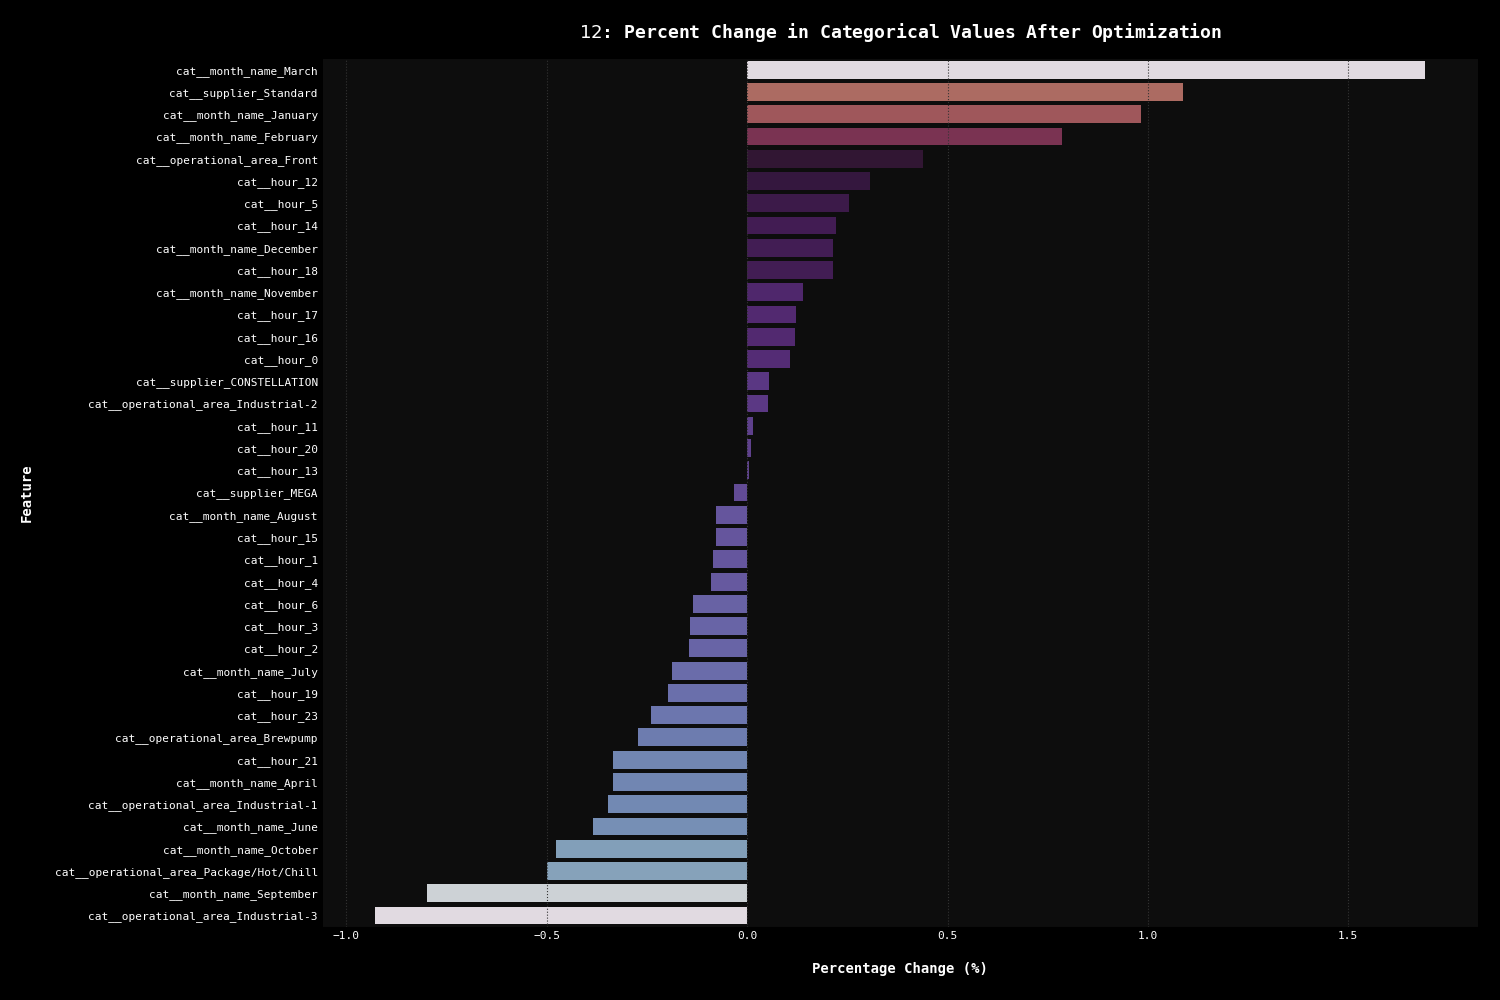
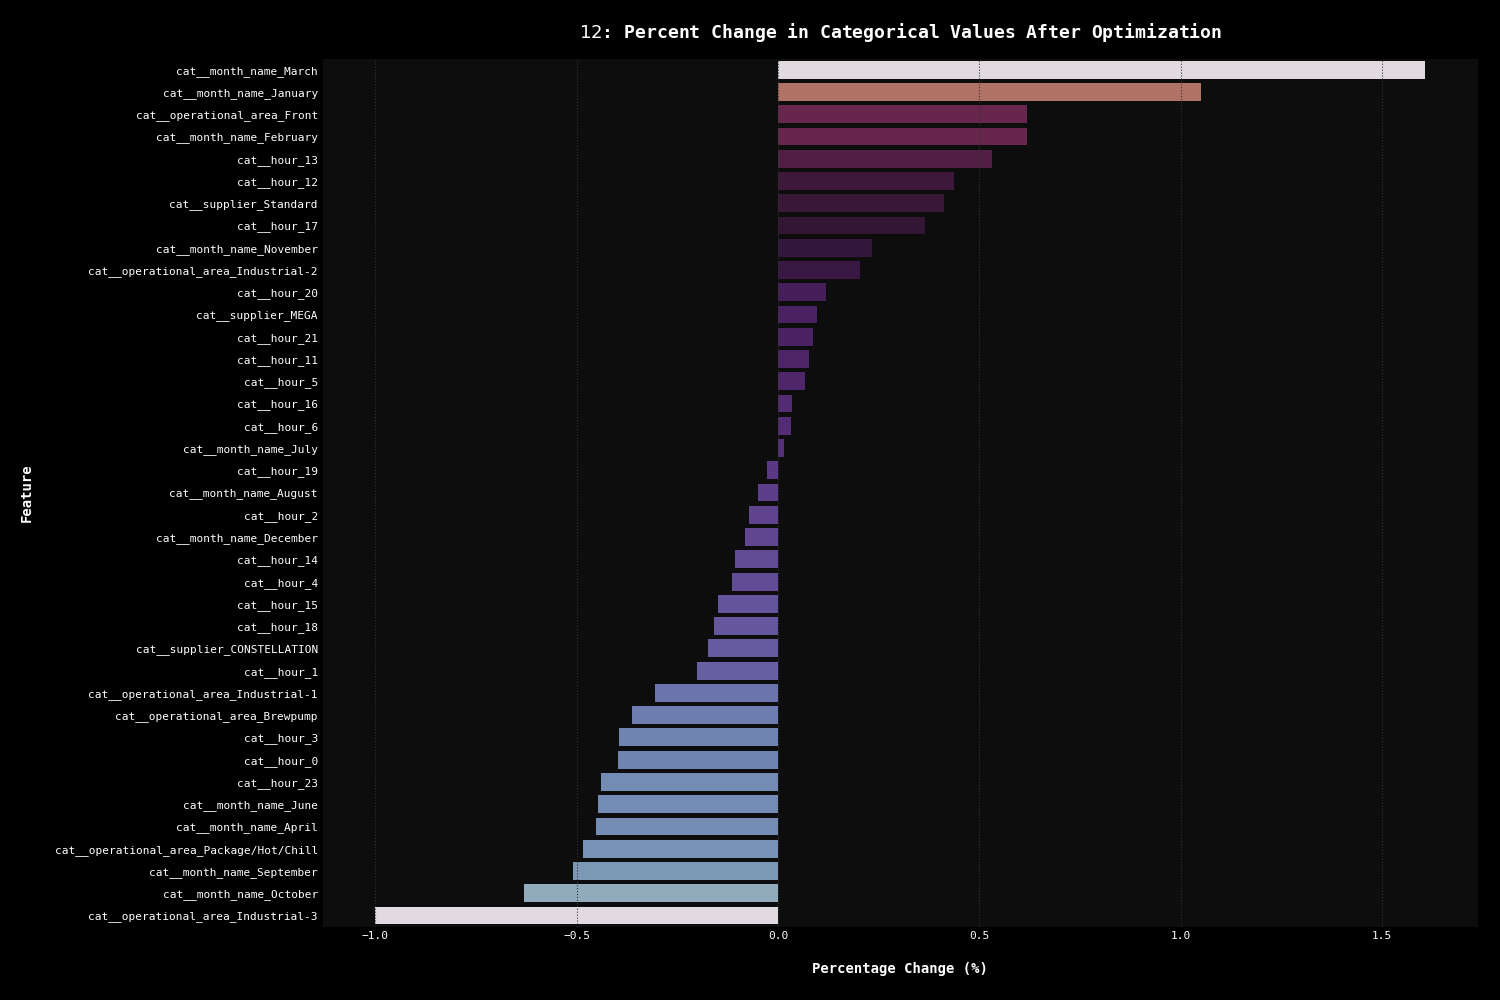
Optimization done

diff --git a/src/analysis/jp/jp11.py b/src/analysis/jp/jp11.py
@@ -6,11 +6,11 @@ from analysis.jp.jp06 import X_train_lasso
 from analysis.jp.jp09 import best_estimator
 from sklearn.ensemble import RandomForestRegressor
 from scipy.optimize   import minimize
-from typing           import List
+from typing           import List, Tuple
 from utils.runtime    import find_project_root
 
 def slsqp(X    : np.ndarray            = X_train_lasso, 
-          best : RandomForestRegressor = best_estimator) -> List[np.ndarray]:
+          best : RandomForestRegressor = best_estimator) -> Tuple[List[np.ndarray], List[np.ndarray], Tuple[float, float]]:
     '''
     Performs optimization on feature sets and visualizes the distribution of predicted costs for these optimized sets.
 
@@ -18,7 +18,7 @@ def slsqp(X    : np.ndarray            = X_train_lasso,
         1. Convert the sparse matrix to a dense array for manipulation.
         2. Select a random subset of samples for optimization.
         3. Define an objective function based on the Random Forest predictions.
-        4. Perform optimization on each sample and visualize the distribution of predicted costs.
+        4. Perform optimization on each sample.
 
     Data Science Concepts:
         • SLSQP (Sequential Least Squares Quadratic Programming):
@@ -31,8 +31,9 @@ def slsqp(X    : np.ndarray            = X_train_lasso,
         best (RandomForestRegressor) : The best-fitted Random Forest model from Randomized Search CV.
 
     Returns:
-        List[np.ndarray]: A list of optimized feature sets, each represented as an array of feature values. 
-                          These sets are those that meet the specified cost bounds after optimization.
+        all_sets       (List[np.ndarray])    : All feature sets evaluated during the optimization.
+        optimized_sets (List[np.ndarray])    : Feature sets that meet the specified cost bounds.
+        cost_bounds    (Tuple[float, float]) : Lower and upper bounds for the optimized cost range.
 
     Produces:
         A scatter plot saved as a PNG file and displayed on the screen, showing the distribution of predicted costs.
@@ -52,8 +53,8 @@ def slsqp(X    : np.ndarray            = X_train_lasso,
         return best.predict([features])[0]
 
     # 3: Optimizing and storing results
-    optimized_sets = []
     all_sets       = []
+    optimized_sets = []
 
     for i in random_samples:
 
@@ -63,9 +64,29 @@ def slsqp(X    : np.ndarray            = X_train_lasso,
         if cost_bounds[0] <= objective_function(result.x) <= cost_bounds[1]:
             optimized_sets.append(result.x)
 
+    return all_sets, optimized_sets, cost_bounds
+
+all_sets, optimized_sets, cost_bounds = slsqp()
+
+
+def plot_slsqp(best        : RandomForestRegressor = best_estimator, 
+               all_sets    : List[np.ndarray]      = all_sets,
+               cost_bounds : Tuple[float, float]   = cost_bounds):
+    '''
+    Visualizes the distribution of predicted costs for all and optimized feature sets.
+
+    Parameters:
+        best        (RandomForestRegressor) : The best-fitted Random Forest model.
+        all_sets    (List[np.ndarray])      : List of all feature sets evaluated.
+        cost_bounds (Tuple[float, float])   : Lower and upper bounds for the optimized cost range.
+
+    Produces:
+        A scatter plot showing the distribution of predicted costs.
+    '''
+
     predicted_costs = best.predict(all_sets)
 
-    # 4: Visualizing the results
+    # Visualizing the results
     plt.scatter(range(len(predicted_costs)), 
                 predicted_costs, 
                 c    = predicted_costs,
@@ -89,4 +110,4 @@ def slsqp(X    : np.ndarray            = X_train_lasso,
 
 if __name__ == "__main__":
     
-    slsqp()
+    plot_slsqp()

diff --git a/src/analysis/jp/jp12.py b/src/analysis/jp/jp12.py
@@ -3,17 +3,14 @@ import numpy   as np
 import pandas  as pd
 import seaborn as sns
 
-from analysis.jp.flat import prepared_data
-from analysis.jp.jp04 import remove_anomalies
-from analysis.jp.jp06 import lasso
-from analysis.jp.jp09 import random_forest
-from analysis.jp.jp11 import slsqp
+from analysis.jp.jp06 import X_train_lasso, ft_names
+from analysis.jp.jp11 import optimized_sets
 from typing           import List
 from utils.runtime    import find_project_root
 
-def percent_changes(X    : np.ndarray, 
-                    sets : List[np.ndarray], 
-                    fts  : List[str]):
+def percent_changes(X    : np.ndarray       = X_train_lasso, 
+                    sets : List[np.ndarray] = optimized_sets, 
+                    fts  : List[str]        = ft_names):
     '''
     Visualizes the percentage changes in categorical values after optimization.
 
@@ -55,14 +52,8 @@ def percent_changes(X    : np.ndarray,
     file_path = find_project_root('./fig/analysis/jp/12 - Percent Change in Categorical Features After Optimization.png')
     plt.savefig(file_path)
     plt.show()
-    
+
 
 if __name__ == "__main__":
-    
-    df = prepare_data()
-    dfa = remove_anomalies(df)
-    X, _, y, _, fts = lasso(dfa)
-    best = random_forest(X, y)
-    sets = slsqp(X, best)
 
-    percent_changes(X, sets, fts)
+    percent_changes()
